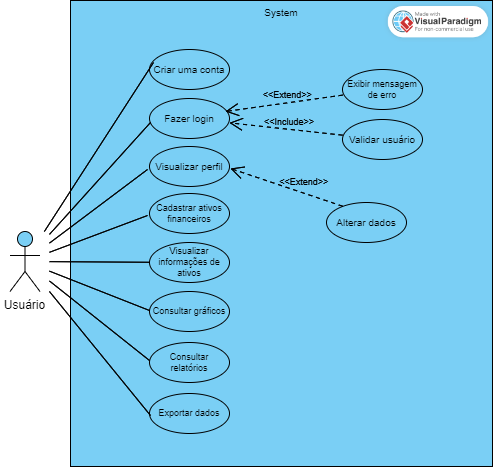
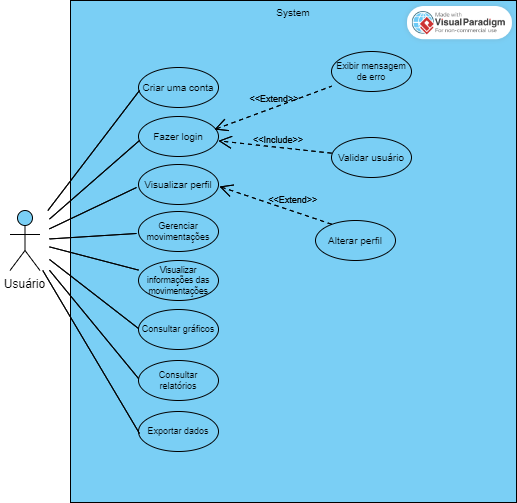
etapa 1 - todas as partes

diff --git a/docs/01-Documentação de Contexto.md b/docs/01-Documentação de Contexto.md
@@ -2,17 +2,22 @@
 
 Nos últimos anos, a popularidade de serviços financeiros online voltados ao gerenciamento financeiro pessoal tem crescido significativamente no Brasil. Um relatório da Comscore, intitulado “Panorama Digital dos Serviços Financeiros”, mostrou que o país lidera a audiência em serviços digitais de bancos, fintechs e meios de pagamento na região. Os dados do Amplitude Labs mostram que o uso de aplicativos aumentou 36% entre janeiro de (2020) e dezembro de (2021), enquanto o uso de sites aumentou 57% durante esse mesmo período. Em um país onde uma expressiva parcela da população, correspondendo a aproximadamente 45,8% dos entrevistados, não realiza um controle sistemático de suas finanças, sendo que 29,3% o fazem de maneira meramente mental, segundo os dados obtidos em pesquisa feita pelo Serviço de Proteção ao Crédito (SPC Brasil) em parceria com a Confederação Nacional de Dirigentes Lojistas (CNDL), nos deparamos com um alto número de indivíduos que utilizam métodos pouco confiáveis para gerir suas finanças, o que acarreta em dificuldades financeiras e, consequentemente, na busca por soluções que, muitas vezes, se mostram ineficazes. Diante de um cenário de desemprego e recessão econômica, os índices de brasileiros inadimplentes continuam aumentando. Um levantamento feito em setembro de (2022) pelo Serasa Experian com o instituto Opinion Box aponta que 68,39 milhões de pessoas estão endividadas no Brasil. De acordo com a pesquisa, 71% dos endividados têm uma dívida que está atrasada há pelo menos um ano. Em paralelo, 59% dos endividados desconhecem os valores das tarifas e juros que são cobrados nos casos de atraso de pagamento. Ainda segundo a pesquisa, um dos principais motivos para o endividamento é o descontrole financeiro, com 8% das respostas, atrás do desemprego, que foi apontado por 29% dos entrevistados como um dos fatores que contribuíram para a inadimplência. Em decorrência desses levantamentos, podemos concluir que muitas pessoas enfrentam dificuldades para controlar suas finanças pessoais e atingir seus objetivos financeiros devido à falta de conhecimento sobre gestão financeira e a falta de uma ferramenta que os auxilie de forma objetiva e simplória. Nesse sentido, um planejamento financeiro pode minimizar riscos de inadimplências, levando-nos a crer que a construção de um gerenciador financeiro pode ser uma ferramenta valiosa para ajudar as pessoas a desenvolverem um planejamento financeiro sólido, controlar suas despesas, evitar endividamentos e alcançar seus objetivos financeiros de forma mais eficaz. O que levou ao surgimento de uma alta demanda por soluções mais eficazes e modernas, tornando cada vez mais existentes empresas que oferecem carteiras digitais para gerenciamento financeiro pessoal, como o MOBILLS (2023), que é um gerenciador financeiro pessoal que atua tanto como um site, na web, quanto como um aplicativo, no celular. Outra ferramenta é o ORGANIZZE (2023), que é um gerenciador financeiro pessoal que busca como objetivo ajudar seus usuários a administrarem seus ganhos e gastos. Por conseguinte, conclui-se que a existência de uma ferramenta de gerenciamento financeiro intuitiva e inclusiva pode ter um impacto significativo na realidade financeira de muitas pessoas, promovendo a educação financeira, melhorando a gestão das finanças pessoais e reduzindo os desgastes emocionais causados pelo endividamento. Isso pode ajudar as pessoas a alcançarem uma vida financeira mais saudável e equilibrada, melhorando sua qualidade de vida em geral e impulsionando a economia do país.
 
-
 ## Problema
 
-Muitas pessoas de diversas faixas etárias, desde jovens em início de carreira até idosos que desejam uma gestão mais eficiente de suas finanças, enfrentam dificuldades para montar orçamentos simples e efetivos para gerenciar suas finanças pessoais, o que pode levar a desequilíbrios financeiros, endividamentos e dificuldades para alcançar objetivos financeiros, como economizar para a aposentadoria, comprar uma casa ou fazer uma viagem. Além disso, a falta de educação financeira e de ferramentas intuitivas e simples é um problema social que afeta a economia do país como um todo, uma vez que indivíduos com problemas financeiros tendem a gastar menos e, consequentemente, reduzem a demanda por produtos e serviços. 
+Muitas pessoas de diversas faixas etárias, desde jovens em início de carreira até idosos que desejam uma gestão mais eficiente de suas finanças, enfrentam dificuldades para montar orçamentos simples e efetivos para gerenciar suas finanças pessoais, o que pode levar a desequilíbrios financeiros, endividamentos e dificuldades para alcançar objetivos financeiros, como economizar para a aposentadoria, comprar uma casa ou fazer uma viagem. Além disso, a falta de educação financeira e de ferramentas intuitivas e simples é um problema social que afeta a economia do país como um todo, uma vez que indivíduos com problemas financeiros tendem a gastar menos e, consequentemente, reduzem a demanda por produtos e serviços.
 
 
 ## Objetivos
 
-Aqui você deve descrever os objetivos do trabalho indicando que o objetivo geral é desenvolver um software para solucionar o problema apresentado acima. 
+O objetivo deste trabalho é desenvolver um gerenciador financeiro eficiente que possibilite o controle das finanças pessoais e empresariais de forma simplificada e prática. O objetivo final é proporcionar aos usuários uma ferramenta eficaz para o controle financeiro, que possa auxiliá-los na tomada de decisões importantes e na busca pela saúde financeira.
 
-Apresente também alguns (pelo menos 2) objetivos específicos dependendo de onde você vai querer concentrar a sua prática investigativa, ou como você vai aprofundar no seu trabalho.
+Objetivos específicos:
+
+- Desenvolver uma interface intuitiva e amigável que possibilite o fácil acesso às funcionalidades do gerenciador financeiro, com a utilização de tecnologias adequadas para garantir a melhor experiência do usuário (Ux/Ui).
+- Implementar um sistema de controle de receitas e despesas, que permita o registro de todas as movimentações financeiras de forma organizada e clara (Registro de movimentação).
+- Criar uma funcionalidade para a previsão orçamentária, com base em dados históricos e previsões futuras, que auxilie o usuário no planejamento financeiro (Faturas posteriores podem ser planejadas previamente).
+
+
 
 ## Justificativa
 
@@ -22,3 +27,4 @@ A realização de um projeto sobre gestão monetária justifica-se por entender 
 ## Público-Alvo
 
 O site de gerenciamento financeiro é destinado a indivíduos que desejam ter o controle sobre suas finanças pessoais. Tal ferramenta abrange uma ampla gama de público, independentemente de sua faixa etária ou classe social. A mesma é destinada a jovens adultos em início de vida financeira, assim como para aqueles que já estão na fase de planejamento de sua aposentadoria. Ademais, sua utilização é acessível e prática, permitindo que pessoas de todas as classes sociais possam usufruir de suas funcionalidades. Além disso, o site é especialmente indicado para pessoas que desejam evitar desequilíbrios financeiros, endividamentos e dificuldades para atingir objetivos financeiros a curto, médio ou longo prazo.
+

diff --git a/docs/02-Especificação do Projeto.md b/docs/02-Especificação do Projeto.md
@@ -2,6 +2,8 @@
 
 <span style="color:red">Pré-requisitos: <a href="1-Documentação de Contexto.md"> Documentação de Contexto</a></span>
 
+Os requisitos e as personas apresentadas têm como base entrevistas e experiência pessoal e profissional dos integrantes da equipe, tendo em vista se tratar de uma proposta que visa solucionar o problema de uma categoria com tamanha abrangência não foi necessário simular uma situação, todos os requisitos foram listados como necessidade real do dia a dia desses profissionais. Entretanto as personas são apenas representações gráficas.
+
 
 ## Personas
 
@@ -32,15 +34,28 @@ As tabelas que se seguem apresentam os requisitos funcionais e não funcionais q
 
 |ID    | Descrição do Requisito  | Prioridade |
 |------|-----------------------------------------|----|
-|RF-001| Permitir que o usuário cadastre tarefas | ALTA | 
-|RF-002| Emitir um relatório de tarefas no mês   | MÉDIA |
+|RF-01| Cadastro de usuários: permitir que os usuários se cadastrem no sistema, fornecendo informações básicas, como nome, e-mail e senha. | ALTA | 
+|RF-02| Login: permitir que os usuários acessem o sistema, digitando seu e-mail e senha | ALTA |
+|RF-03| Alterar dados: permitir que os usuários alterem os dados do perfil. | MÉDIA |
+|RF-04| Cadastrar categorias de movimentações: permitir que os usuários cadastrem livremente categorias de suas movimentações, como alimentação; transporte; investimento; salário; proventos; etc. | ALTA |
+|RF-05| Ferramentas de análise: oferecer ferramentas de análise e acompanhamento da carteira, incluindo gráficos, relatórios e receitas. | MÉDIA |
+|RF-06| Visualização de informações de ativos: permitir que os usuários visualizem as informações de ativos pré-definidos pelo sistema (ações e fundos imobiliários), como preço atual, proventos recebidos e saldo. | MÉDIA |
+|RF-06| Exportação de dados: permitir que os usuários exportem seus dados para planilhas, facilitando a análise e o compartilhamento de informações. | MÉDIA |
+
 
 ### Requisitos não Funcionais
 
 |ID     | Descrição do Requisito  |Prioridade |
 |-------|-------------------------|----|
-|RNF-001| O sistema deve ser responsivo para rodar em um dispositivos móvel | MÉDIA | 
-|RNF-002| Deve processar requisições do usuário em no máximo 3s |  BAIXA | 
+|RNF-01| Segurança: o sistema deve ser seguro e proteger os dados pessoais e financeiros dos usuários. | ALTA | 
+|RNF-02| Confiabilidade: o sistema deve ser confiável e disponível para uso em todo o momento. |  ALTA |
+|RNF-03| Performance: o sistema deve ter uma boa performance, sendo rápido e eficiente. | MÉDIA | 
+|RNF-04| Usabilidade: o sistema deve ser fácil de usar, intuitivo e com boa navegabilidade | ALTA |
+|RNF-05| Escalabilidade: o sistema deve ter capacidade de crescer e se adaptar a diferentes demandas e números de usuários. | MÉDIA |
+|RNF-06| Compatibilidade: o sistema deve ser compatível com diferentes dispositivos e navegadores. | ALTA |
+|RNF-07| Manutenibilidade: o sistema deve ser fácil de manter e atualizar, com código limpo e documentação clara. | MÉDIA |
+|RNF-08| Conformidade: o sistema deve estar em conformidade com as regulamentações financeiras e de privacidade em vigor, como a Lei Geral de Proteção de Dados (LGPD) no Brasil. | ALTA |
+
 
 
 

diff --git a/README.md b/README.md
@@ -1,12 +1,12 @@
-# TÍTULO DO PROJETO
+# Gerenciador Financeiro
 
-`CURSO`
+`Análise e Desenvolvimento de Sistemas`
 
-`DISCIPLINA`
+`Projeto: Desenvolvimento de uma Aplicação Interativa`
 
-`SEMESTRE`
+`Eixo 2`
 
-Descrever resumidamente, em um ou dois parágrafos, o projeto que está sendo desenvolvido.
+Uma solução para o controle das finanças pessoais
 
 ## Integrantes
 
